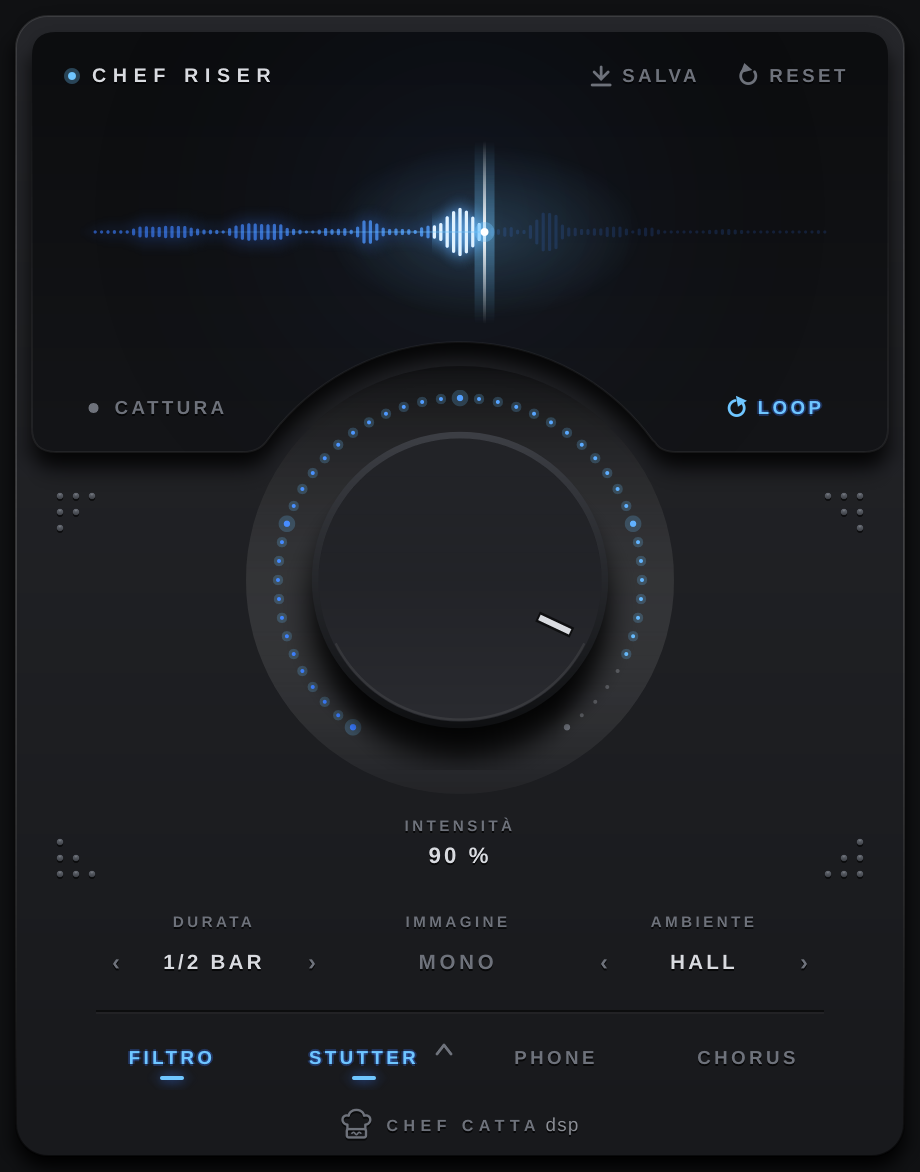
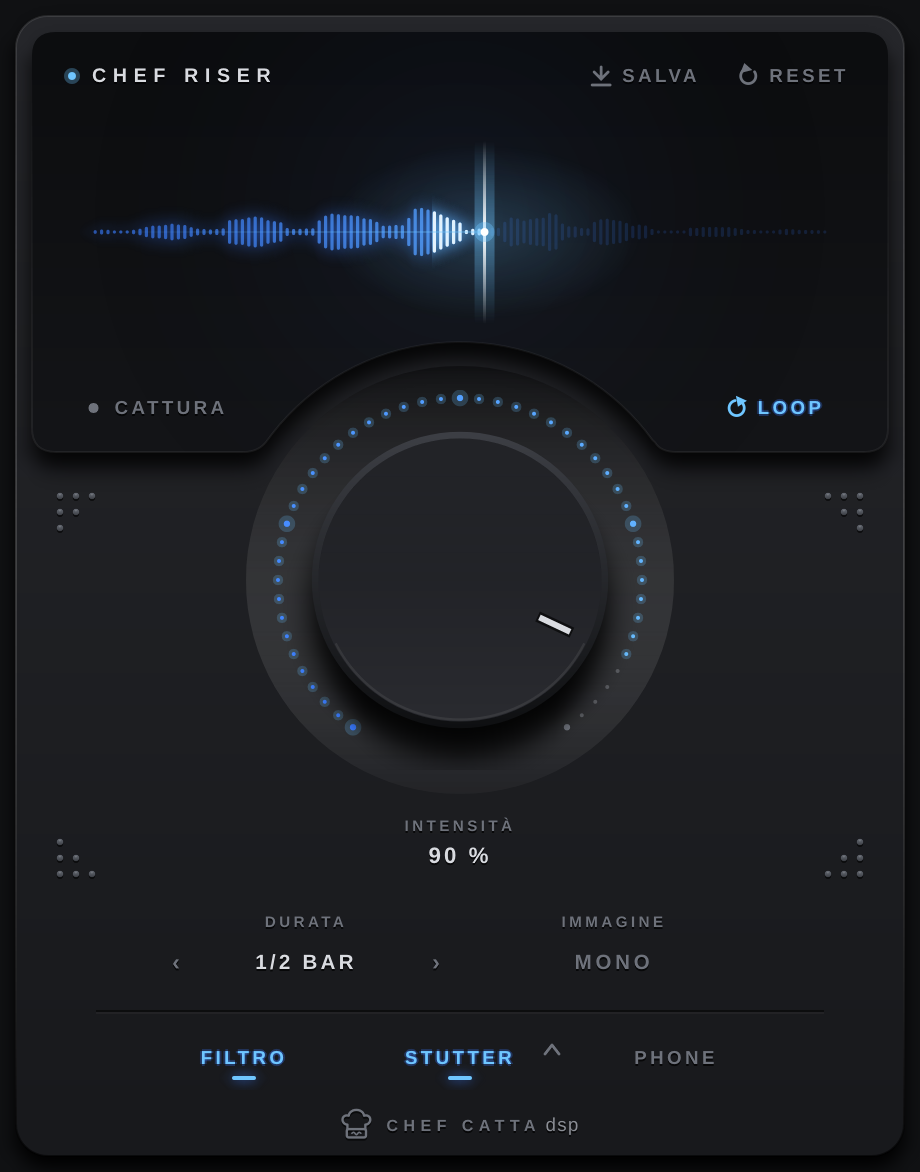
Chef Riser 1.6.0: un solo riverbero, niente chorus, loop continuo
- Tolta la scelta AMBIENTE: resta il riverbero originale
- Tolto l'effetto CHORUS
- Il LOOP riparte subito, senza pausa in fondo

Claude-Session: https://claude.ai/code/session_01HaF7XKr7HpkpQMPQsrDZc5

diff --git a/Source/PluginProcessor.cpp b/Source/PluginProcessor.cpp
@@ -6,8 +6,8 @@ namespace
 {
     const double      beatsTable[]  = { 1.0, 2.0, 4.0, 8.0 };            // 1/4, 1/2, 1, 2 battute (4/4)
     const char* const lengthNames[] = { "1-4bar", "1-2bar", "1bar", "2bar" };
-    const char* const renderParams[] = { "amount", "length", "filterOn", "stutOn", "phoneOn", "chorusOn",
-                                         "revType", "stereoOn", "stutRate", "stutDepth", "pingPong" };
+    const char* const renderParams[] = { "amount", "length", "filterOn", "stutOn", "phoneOn",
+                                         "stereoOn", "stutRate", "stutDepth", "pingPong" };
     constexpr float thresholdGain = 0.0056f; // ~ -45 dBFS
 
     // Trova dove finisce la prima parola: l'inviluppo scende sotto -12 dB
@@ -90,8 +90,6 @@ VocalRiserAudioProcessor::VocalRiserAudioProcessor()
     pFilterOn = apvts.getRawParameterValue ("filterOn");
     pStutOn   = apvts.getRawParameterValue ("stutOn");
     pPhoneOn  = apvts.getRawParameterValue ("phoneOn");
-    pChorusOn = apvts.getRawParameterValue ("chorusOn");
-    pRevType  = apvts.getRawParameterValue ("revType");
     pStereoOn = apvts.getRawParameterValue ("stereoOn");
     pStutRate = apvts.getRawParameterValue ("stutRate");
     pStutDepth = apvts.getRawParameterValue ("stutDepth");
@@ -130,9 +128,6 @@ juce::AudioProcessorValueTreeState::ParameterLayout VocalRiserAudioProcessor::cr
     p.push_back (std::make_unique<AudioParameterBool> (ParameterID { "filterOn", 1 }, "Filtro",  true));
     p.push_back (std::make_unique<AudioParameterBool> (ParameterID { "stutOn", 1 },   "Stutter", true));
     p.push_back (std::make_unique<AudioParameterBool> (ParameterID { "phoneOn", 1 },  "Phone",   false));
-    p.push_back (std::make_unique<AudioParameterBool> (ParameterID { "chorusOn", 1 }, "Chorus",  false));
-    p.push_back (std::make_unique<AudioParameterChoice> (ParameterID { "revType", 1 }, "Ambiente",
-                                                         StringArray { "Hall", "Plate", "Space" }, 0));
     p.push_back (std::make_unique<AudioParameterBool> (ParameterID { "stereoOn", 1 }, "Mono -> Stereo", false));
     p.push_back (std::make_unique<AudioParameterChoice> (ParameterID { "stutRate", 1 }, "Timing Stutter",
                                                          StringArray { "1/4", "1/8", "1/16" }, 2));
@@ -302,7 +297,7 @@ void VocalRiserAudioProcessor::processBlock (juce::AudioBuffer<float>& buffer, j
         if (lock.isLocked() && previewBuf != nullptr && previewBuf->getNumSamples() > 0)
         {
             const int len = previewBuf->getNumSamples();
-            const int gap = (int) (60.0 / bpm * sr);          // un beat di pausa tra una ripetizione e l'altra
+            const int gap = 0;                                  // loop continuo, senza pausa in fondo
             const int cycle = len + gap;
 
             int pos = previewPos.load (std::memory_order_relaxed);
@@ -549,7 +544,6 @@ void VocalRiserAudioProcessor::renderRiser()
     const auto image = srcStereo                               ? RiserReverbs::keepStereo
                      : (pStereoOn->load() > 0.5f || pingPong)  ? RiserReverbs::monoToStereo
                                                                : RiserReverbs::monoOut;
-    const auto revType = (RiserReverbs::Type) jlimit (0, 2, (int) pRevType->load());
 
     auto normalise = [] (AudioBuffer<float>& b, float targetPeak)
     {
@@ -585,14 +579,12 @@ void VocalRiserAudioProcessor::renderRiser()
         for (int j = offset; j < total; ++j) w[j] += fb * w[j - offset];
     }
 
-    // Riverbero della prima versione. HALL e esattamente quello originale;
-    // PLATE e un po' piu piccolo e brillante, SPACE un po' piu grande e scuro.
+    // Riverbero della prima versione
     Reverb rv;
     rv.setSampleRate (rate);
     Reverb::Parameters rp;
-    const float sizeOffset = revType == RiserReverbs::plate ? -0.06f : revType == RiserReverbs::space ? 0.02f : 0.0f;
-    rp.roomSize   = jlimit (0.0f, 0.985f, 0.80f + 0.16f * amount + (lenIdx >= 2 ? 0.04f * (float) (lenIdx - 1) : 0.0f) + sizeOffset);
-    rp.damping    = revType == RiserReverbs::plate ? 0.2f : revType == RiserReverbs::space ? 0.5f : 0.35f;
+    rp.roomSize   = jlimit (0.0f, 0.985f, 0.80f + 0.16f * amount + (lenIdx >= 2 ? 0.04f * (float) (lenIdx - 1) : 0.0f));
+    rp.damping    = 0.35f;
     rp.wetLevel   = 0.33f;
     rp.dryLevel   = 0.0f;
     rp.width      = 1.0f;
@@ -666,23 +658,6 @@ void VocalRiserAudioProcessor::renderRiser()
         }
     }
 
-    if (pChorusOn->load() > 0.5f)
-    {
-        dsp::Chorus<float> chorus;
-        chorus.prepare (spec);
-        chorus.setRate (0.8f);
-        chorus.setDepth (0.35f);
-        chorus.setCentreDelay (9.0f);
-        chorus.setFeedback (0.1f);
-        chorus.setMix (0.5f);
-        for (int pos = 0; pos < Ls; pos += 512)
-        {
-            dsp::AudioBlock<float> blk (out);
-            auto sub = blk.getSubBlock ((size_t) pos, (size_t) jmin (512, Ls - pos));
-            chorus.process (dsp::ProcessContextReplacing<float> (sub));
-        }
-    }
-
     if (image == RiserReverbs::monoOut)
         out.copyFrom (1, 0, out, 0, 0, Ls);   // uscita mono: L e R identici
 
@@ -713,7 +688,7 @@ void VocalRiserAudioProcessor::renderRiser()
     if (captureEpoch.load() != epoch)
         return;
     previewSr.store (rate);
-    previewGap.store ((int) (secPerBeat * rate));
+    previewGap.store (0);                     // loop continuo, senza pausa
     {
         const ScopedLock sl (resultLock);
         rendered     = std::make_shared<const AudioBuffer<float>> (out);

diff --git a/Source/PluginEditor.cpp b/Source/PluginEditor.cpp
@@ -601,7 +601,6 @@ static void drawDotCorner (juce::Graphics& g, juce::Point<float> corner, float d
 VocalRiserAudioProcessorEditor::VocalRiserAudioProcessorEditor (VocalRiserAudioProcessor& p)
     : AudioProcessorEditor (&p), proc (p), wave (p),
       lengthSel (*p.apvts.getParameter ("length"), "DURATA", { "1/4 BAR", "1/2 BAR", "1 BAR", "2 BAR" }),
-      reverbSel (*p.apvts.getParameter ("revType"), "AMBIENTE", { "HALL", "PLATE", "SPACE" }),
       stutPopup (p)
 {
     setLookAndFeel (&lnf);
@@ -650,7 +649,6 @@ VocalRiserAudioProcessorEditor::VocalRiserAudioProcessorEditor (VocalRiserAudioP
 
     // Selettori
     addAndMakeVisible (lengthSel);
-    addAndMakeVisible (reverbSel);
     // Freccia accanto a STUTTER: apre il menu con TIMING, QUANTITA e PING PONG
     stutMenuBtn.getProperties().set ("icon", "chevron");
     stutMenuBtn.setTooltip ("Opzioni dello stutter");
@@ -666,9 +664,9 @@ VocalRiserAudioProcessorEditor::VocalRiserAudioProcessorEditor (VocalRiserAudioP
     buttonAtts.push_back (std::make_unique<ButtonAtt> (apvts, "stereoOn", stereoBtn));
 
     // Effetti
-    const char* fxNames[] = { "FILTRO", "STUTTER", "PHONE", "CHORUS" };
-    const char* fxIds[]   = { "filterOn", "stutOn", "phoneOn", "chorusOn" };
-    for (int i = 0; i < 4; ++i)
+    const char* fxNames[] = { "FILTRO", "STUTTER", "PHONE" };
+    const char* fxIds[]   = { "filterOn", "stutOn", "phoneOn" };
+    for (int i = 0; i < 3; ++i)
     {
         auto& b = fxBtns[(size_t) i];
         b.setButtonText (fxNames[i]);
@@ -885,14 +883,15 @@ void VocalRiserAudioProcessorEditor::resized()
     int y = intensityArea.getBottom() + 18;
     auto sel = juce::Rectangle<int> (shell.getX() + 18, y, shell.getWidth() - 36, 40);
     sel = sel.reduced (20, 0);
-    const int sw = sel.getWidth() / 3;
+    sel = sel.reduced (30, 0);
+    const int sw = sel.getWidth() / 2;
     lengthSel.setBounds (sel.removeFromLeft (sw).reduced (4, 0));
-    stereoBtn.setBounds (sel.removeFromLeft (sw).reduced (4, 0).withTrimmedTop (12));
-    reverbSel.setBounds (sel.reduced (4, 0));
+    stereoBtn.setBounds (sel.reduced (4, 0).withTrimmedTop (12));
 
     y += 40 + 18;
     auto fx = juce::Rectangle<int> (shell.getX() + 30, y, shell.getWidth() - 60, 32);
-    const int fw = fx.getWidth() / 4;
+    fx = fx.reduced (30, 0);
+    const int fw = fx.getWidth() / (int) fxBtns.size();
     for (auto& b : fxBtns) b.setBounds (fx.removeFromLeft (fw));
 
     // la freccia sta subito a destra della scritta STUTTER

diff --git a/Source/PluginEditor.h b/Source/PluginEditor.h
@@ -123,10 +123,10 @@ private:
     juce::TextButton captureBtn { "CATTURA" }, loopBtn { "LOOP" }, saveBtn { "SALVA" }, resetBtn { "RESET" };
 
     juce::Slider amountKnob;
-    ArrowSelector lengthSel, reverbSel;
+    ArrowSelector lengthSel;
     juce::TextButton stutMenuBtn;                       // freccia che apre il menu dello stutter
     juce::TextButton stereoBtn { "STEREO" };
-    std::array<juce::TextButton, 4> fxBtns;
+    std::array<juce::TextButton, 3> fxBtns;
     StutterPopup stutPopup;                              // dichiarato dopo i pulsanti: si costruisce dopo e si distrugge prima
 
     std::unique_ptr<SliderAtt> amountAtt;

diff --git a/Source/PluginProcessor.h b/Source/PluginProcessor.h
@@ -125,8 +125,8 @@ private:
 
     std::atomic<float>* pAmount = nullptr;  std::atomic<float>* pLength = nullptr;
     std::atomic<float>* pFilterOn = nullptr; std::atomic<float>* pStutOn = nullptr;
-    std::atomic<float>* pPhoneOn = nullptr;  std::atomic<float>* pChorusOn = nullptr;
-    std::atomic<float>* pRevType = nullptr;  std::atomic<float>* pStereoOn = nullptr;
+    std::atomic<float>* pPhoneOn = nullptr;
+    std::atomic<float>* pStereoOn = nullptr;
     std::atomic<float>* pStutRate = nullptr; std::atomic<float>* pStutDepth = nullptr;
     std::atomic<float>* pPingPong = nullptr;
 
